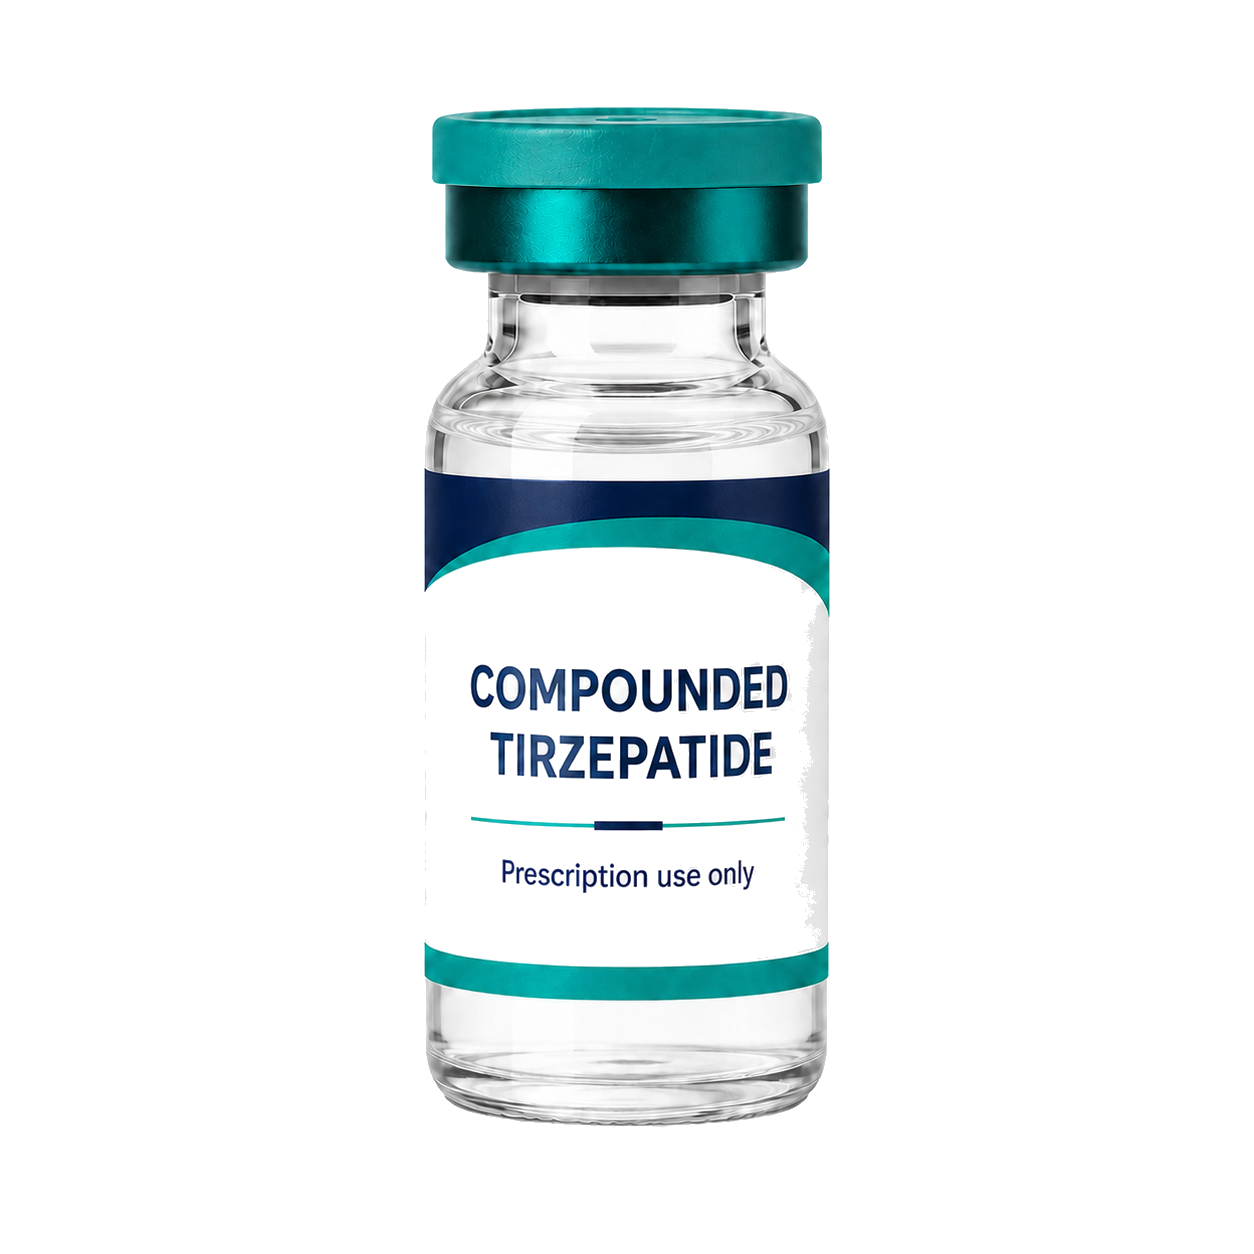
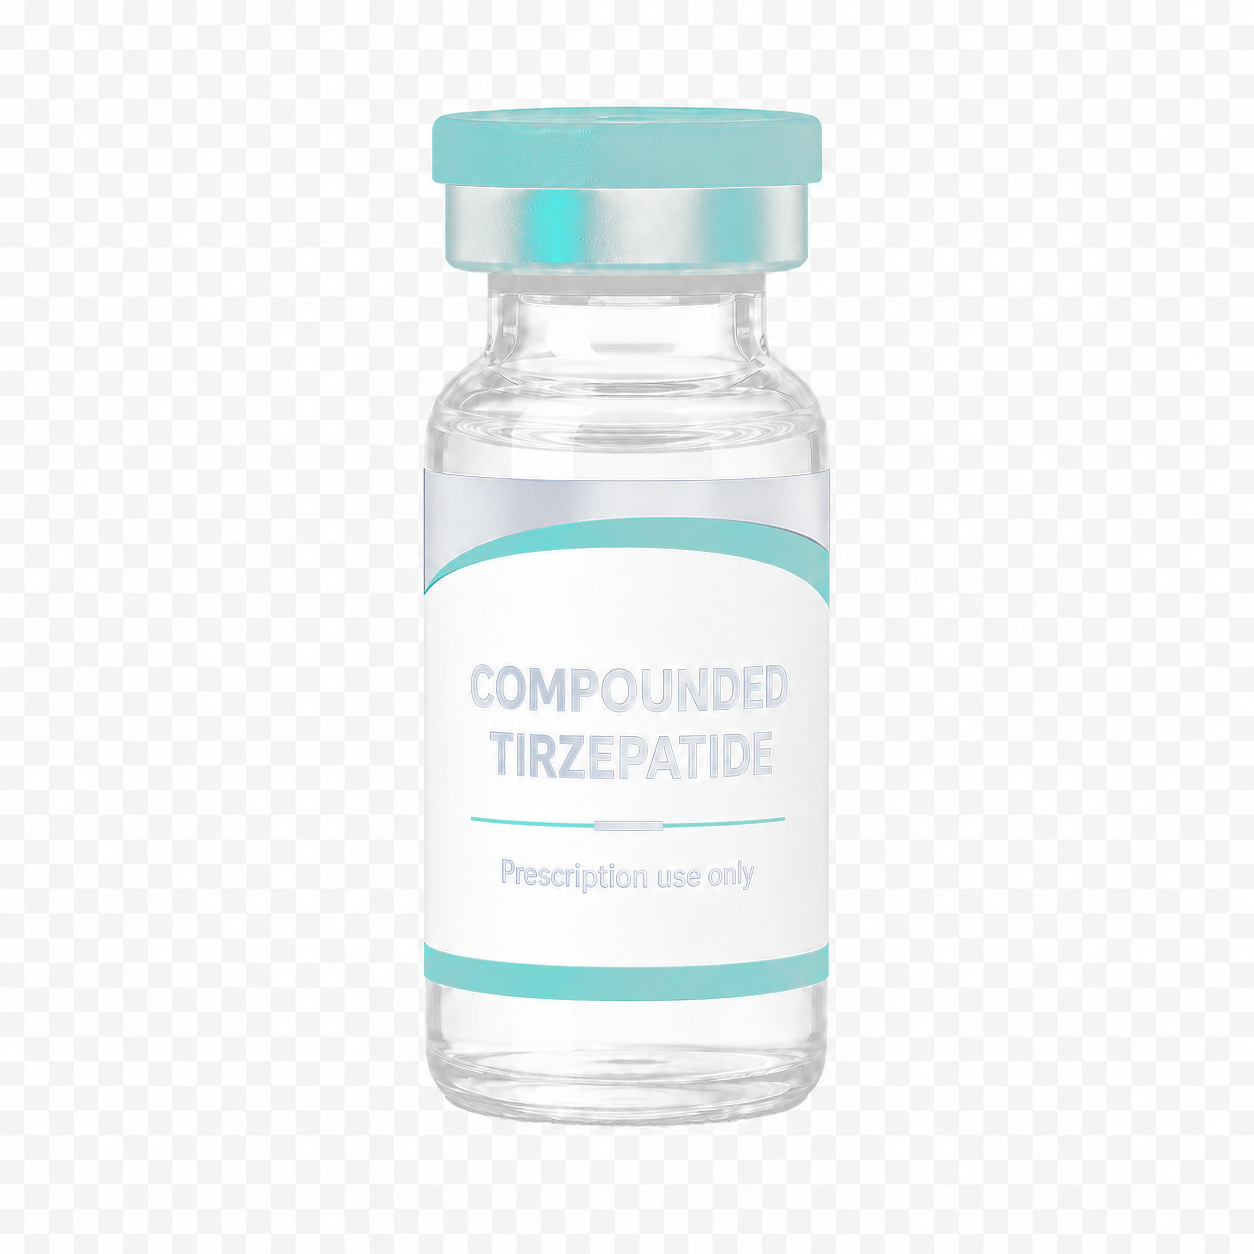
Repair and brighten compounded vials

diff --git a/app/revamp.css b/app/revamp.css
@@ -17,3 +17,11 @@
   top:50%;
   transform:translate(-50%,-50%);
 }
+.glance-card.semaglutide .glance-silhouette{
+  opacity:.38;
+  filter:saturate(.95) brightness(1.12) contrast(1.02);
+}
+.glance-card.tirzepatide .glance-silhouette{
+  opacity:.42;
+  filter:saturate(.95) brightness(1.3) contrast(1.02);
+}
